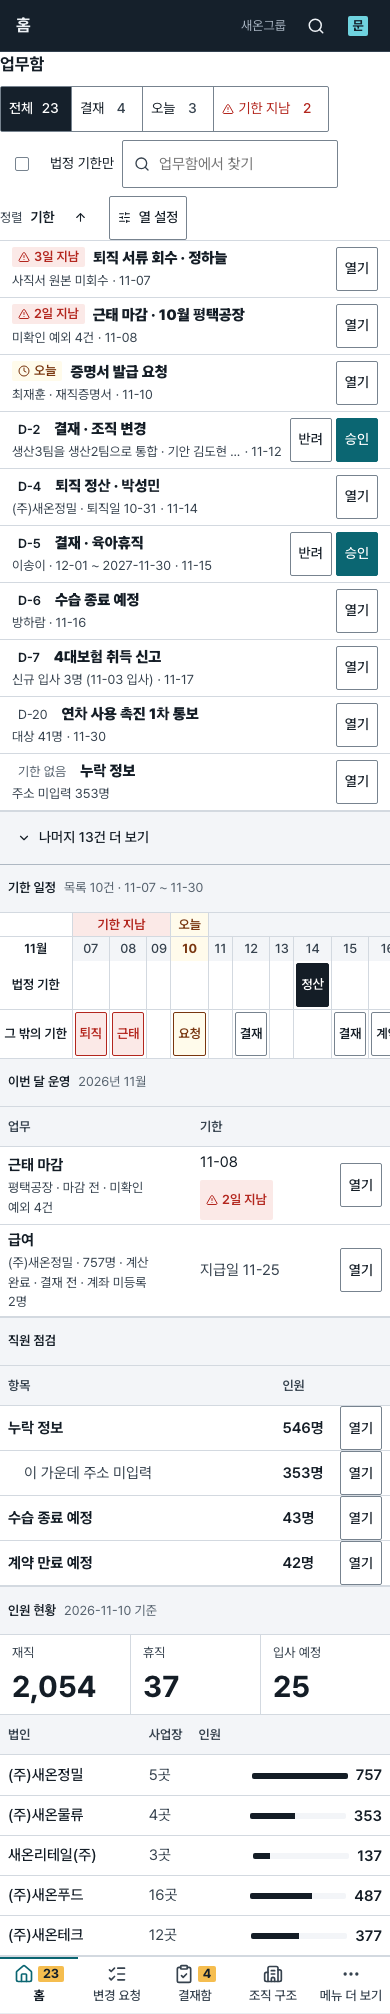
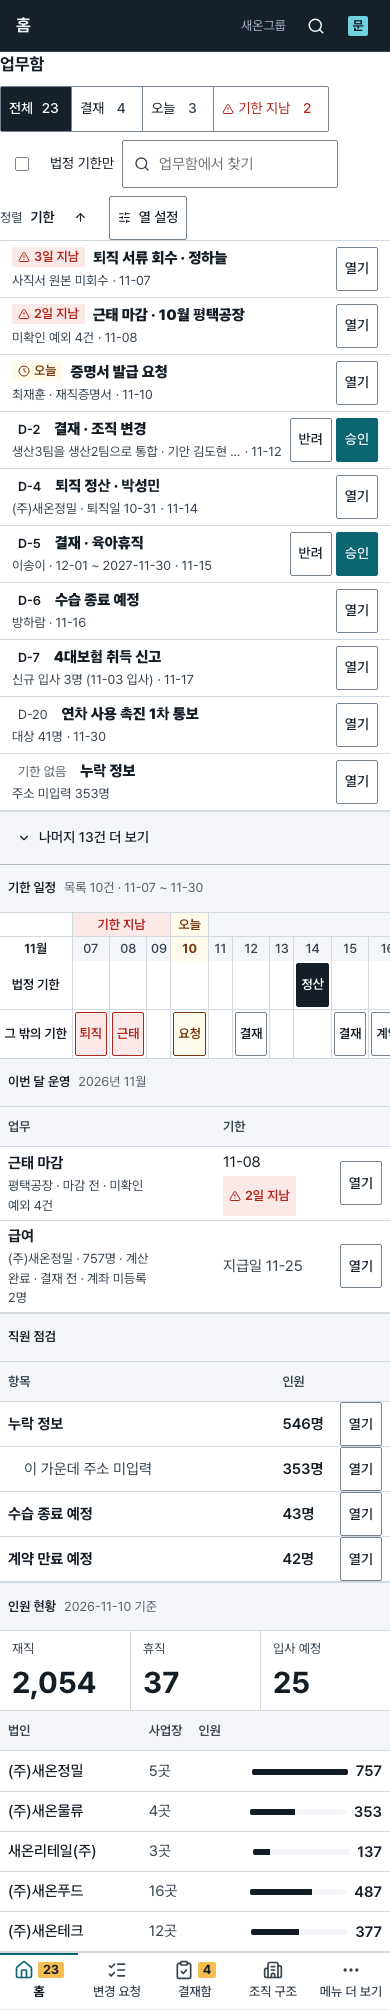
fix(ui): wrap phone operations cells and bound bottom-nav overflow

diff --git a/e2e/mock/home-worklist-console.spec.ts b/e2e/mock/home-worklist-console.spec.ts
@@ -1,14 +1,15 @@
 // SPDX-License-Identifier: LicenseRef-Proprietary
-import { expect, test, type Page } from "@playwright/test";
+import { expect, type Page } from "@playwright/test";
 import type { paths } from "@console/api/schema";
-import { loadCatalog, t } from "@console/i18n";
+import { i18n, loadCatalog, t } from "@console/i18n";
 import { EXPERIENCE_KEY } from "../../apps/web/src/lib/prefs";
 import { expectAxe, fits } from "../a11y";
+import { test } from "../locale-fixture";
 import { shot, withFullPage } from "../shots";
 import { screens } from "../states/registry";
 import { homeSetupChecklist } from "../states/home-setup";
 import { previewData } from "./onboarding";
-import { failure, inbox, screenAccess, user } from "./fixtures";
+import { failure, id, inbox, screenAccess, user } from "./fixtures";
 import { mockRoute } from "./route";
 import {
   saeonAdminToken,
@@ -23,20 +24,27 @@ import { mockScreen } from "./screen";
 
 test.beforeAll(() => loadCatalog("ko"));
 
-async function enableConsoleExperience(page: Page, theme: "light" | "dark" = "light") {
+async function enableConsoleExperience(page: Page, theme: "light" | "dark" = "light", locale: "ko" | "en" = "ko") {
   await page.addInitScript(
-    ({ expKey, themeValue }) => {
+    ({ expKey, themeValue, localeValue }) => {
       localStorage.setItem(expKey, "console");
       localStorage.setItem("console.theme", themeValue);
+      localStorage.setItem("console.locale", localeValue);
     },
-    { expKey: EXPERIENCE_KEY, themeValue: theme },
+    { expKey: EXPERIENCE_KEY, themeValue: theme, localeValue: locale },
   );
 }
 
-async function setupConsoleSaeonWorklist(page: Page, theme: "light" | "dark" = "light") {
-  await enableConsoleExperience(page, theme);
+async function setupConsoleSaeonWorklist(
+  page: Page,
+  theme: "light" | "dark" = "light",
+  locale: "ko" | "en" = "ko",
+  extraItems: ReturnType<typeof saeonWorklistInbox>["items"] = [],
+) {
+  await enableConsoleExperience(page, theme, locale);
   const fixture = await mockScreen(page, screens[0], "populated");
-  const inboxData = saeonWorklistInbox();
+  const baseInbox = saeonWorklistInbox();
+  const inboxData = extraItems.length > 0 ? { ...baseInbox, items: [...baseInbox.items, ...extraItems] } : baseInbox;
   const orgDetail = saeonApprovalOrgChange();
   const structure = saeonOrgStructure();
   const orgUnits: paths["/api/v1/org-units"]["get"]["responses"]["200"]["content"]["application/json"]["items"] =
@@ -477,6 +485,103 @@ test("Console decision refusal and step-up flow surface accessible error feedbac
     const stepUpAlert = page.getByRole("main").getByRole("alert");
     await expect(stepUpAlert).toBeVisible();
     await expectAxe(page, "Console step-up refusal /inbox");
+    expect(fixture.unexpected).toEqual([]);
+  } finally {
+    fixture.release();
+  }
+});
+
+test("Console Home English phone (390px) fits PhoneBottomNav overflow and Monthly operations cells cleanly", async ({ page }) => {
+  await loadCatalog("en");
+  i18n.set("en");
+  await page.setViewportSize({ width: 390, height: 900 });
+  const unlockExceptionItem: ReturnType<typeof saeonWorklistInbox>["items"][number] = {
+    id: `period_unlock:${id(902)}`,
+    kind: "period_unlock",
+    urg: "now",
+    ref: "",
+    title: "Kim Doyeon",
+    site: "HQ · Payroll",
+    due: "2026-11-08T09:00:00+09:00",
+    dueTone: "danger",
+    days_remaining: -2,
+    links: [{ kind: "period_lock", id: id(900) }],
+    done: false,
+    lane: "turn",
+    context: {
+      unlock: {
+        domain: "payroll",
+        periodStart: "2026-10-01",
+        periodEnd: "2026-10-31",
+        requester: "Kim Doyeon",
+        reason_code: "RETRO_CORRECTION",
+        exceptionId: id(902),
+      },
+    },
+  };
+  const { fixture } = await setupConsoleSaeonWorklist(page, "light", "en", [unlockExceptionItem]);
+  try {
+    await page.goto("/");
+    const worklist = page.locator('[data-pattern="worklist"]');
+    await expect(worklist).toBeVisible();
+
+    const phoneNav = page.getByRole("navigation", { name: t("shell.nav"), exact: true });
+    await expect(phoneNav).toBeVisible();
+    // Wait for lazy BarOverflowLinks hydration inside the 5th bottom-nav slot.
+    await expect(phoneNav.locator("li > div > button")).toBeVisible();
+
+    const opsTable = worklist.getByRole("table", { name: t("home.worklist.opsTitle"), exact: true });
+    await expect(opsTable.locator("tbody tr")).toHaveCount(3);
+    await expect(opsTable).toContainText(t("periodLocks.review.title"));
+    await expect(opsTable).toContainText(t("uiDeadlineChip.over", { days: 2 }));
+
+    const layout = await page.evaluate(() => {
+      const docOverflow = document.documentElement.scrollWidth <= 390;
+      const main = document.getElementById("main");
+      const mainFits = !!main && main.scrollWidth <= main.clientWidth;
+      return { docOverflow, mainFits, docScrollWidth: document.documentElement.scrollWidth };
+    });
+    expect(layout).toEqual({ docOverflow: true, mainFits: true, docScrollWidth: 390 });
+
+    const opsMetrics = await opsTable.evaluate(table => {
+      const rows = [...table.querySelectorAll("tbody tr")];
+      return rows.map(row => {
+        const tds = [...row.querySelectorAll("td")].filter(td => getComputedStyle(td).display !== "none");
+        const tdOverflows = tds.map(td => ({
+          scrollWidth: Math.round(td.scrollWidth),
+          clientWidth: Math.round(td.clientWidth),
+        }));
+        const titleEl = row.querySelector<HTMLElement>("strong");
+        const titleRect = titleEl?.getBoundingClientRect();
+        const titleTdRect = titleEl?.closest("td")?.getBoundingClientRect();
+        const dueEl = row.querySelector<HTMLElement>("td:nth-child(4) > div");
+        const dueRect = dueEl?.getBoundingClientRect();
+        const dueTdRect = dueEl?.closest("td")?.getBoundingClientRect();
+        return {
+          tdOverflows,
+          titleFitsTd:
+            !titleEl ||
+            !titleRect ||
+            !titleTdRect ||
+            (titleEl.scrollWidth <= titleEl.clientWidth + 1 && titleRect.right <= titleTdRect.right + 1),
+          dueFitsTd:
+            !dueEl ||
+            !dueRect ||
+            !dueTdRect ||
+            (dueEl.scrollWidth <= dueEl.clientWidth + 1 && dueRect.right <= dueTdRect.right + 1),
+        };
+      });
+    });
+    for (const row of opsMetrics) {
+      expect(row.titleFitsTd).toBe(true);
+      expect(row.dueFitsTd).toBe(true);
+      for (const td of row.tdOverflows) {
+        expect(td.scrollWidth).toBeLessThanOrEqual(td.clientWidth + 1);
+      }
+    }
+
+    await fits(page, "Console Home en 390 light");
+    await expectAxe(page, "Console Home en 390 light");
     expect(fixture.unexpected).toEqual([]);
   } finally {
     fixture.release();

diff --git a/apps/web/src/shell/console/shell.tsx b/apps/web/src/shell/console/shell.tsx
@@ -130,19 +130,22 @@ function ConsoleLayout({
     [workspaceTabs.tabs, allLinks],
   );
 
-  useKeys({
-    "shell.search": () => {
-      if (platform) return;
-      const mainEl = document.getElementById("main");
-      const inPageFind = mainEl?.querySelector<HTMLInputElement>('[data-list-find] input, input[type="search"]');
-      if (inPageFind && inPageFind.offsetParent !== null) {
-        inPageFind.focus();
-        inPageFind.select();
-        return;
-      }
-      onSearch();
-    },
-  });
+  useKeys(
+    platform
+      ? {}
+      : {
+          "shell.search": () => {
+            const mainEl = document.getElementById("main");
+            const inPageFind = mainEl?.querySelector<HTMLInputElement>('[data-list-find] input, input[type="search"]');
+            if (inPageFind && inPageFind.offsetParent !== null) {
+              inPageFind.focus();
+              inPageFind.select();
+              return;
+            }
+            onSearch();
+          },
+        },
+  );
 
   const rawName = (userProfile?.display_name?.trim() || claims?.name?.trim()) ?? "";
   const shortName = personName(

diff --git a/apps/web/src/ui/patterns/worklist-parts.module.css b/apps/web/src/ui/patterns/worklist-parts.module.css
@@ -241,14 +241,23 @@
     padding-block: var(--space-1);
   }
 
+  .opsTaskTitle {
+    white-space: normal;
+    overflow-wrap: anywhere;
+  }
+
   .opsPhoneMeta {
     display: block;
     white-space: normal;
+    overflow-wrap: anywhere;
   }
 
   .opsDue {
-    flex-wrap: wrap;
-    max-width: calc(var(--space-6) * 3.5);
+    flex-direction: column;
+    align-items: flex-start;
+    gap: var(--space-half);
+    max-width: none;
+    min-width: 0;
     padding-block: var(--space-1);
   }
 }

diff --git a/apps/web/src/ui/bar-overflow-links.module.css b/apps/web/src/ui/bar-overflow-links.module.css
@@ -3,6 +3,9 @@
   position: relative;
   display: inline-flex;
   align-items: stretch;
+  flex: 1;
+  min-width: 0;
+  max-width: 100%;
 }
 
 .panel {
